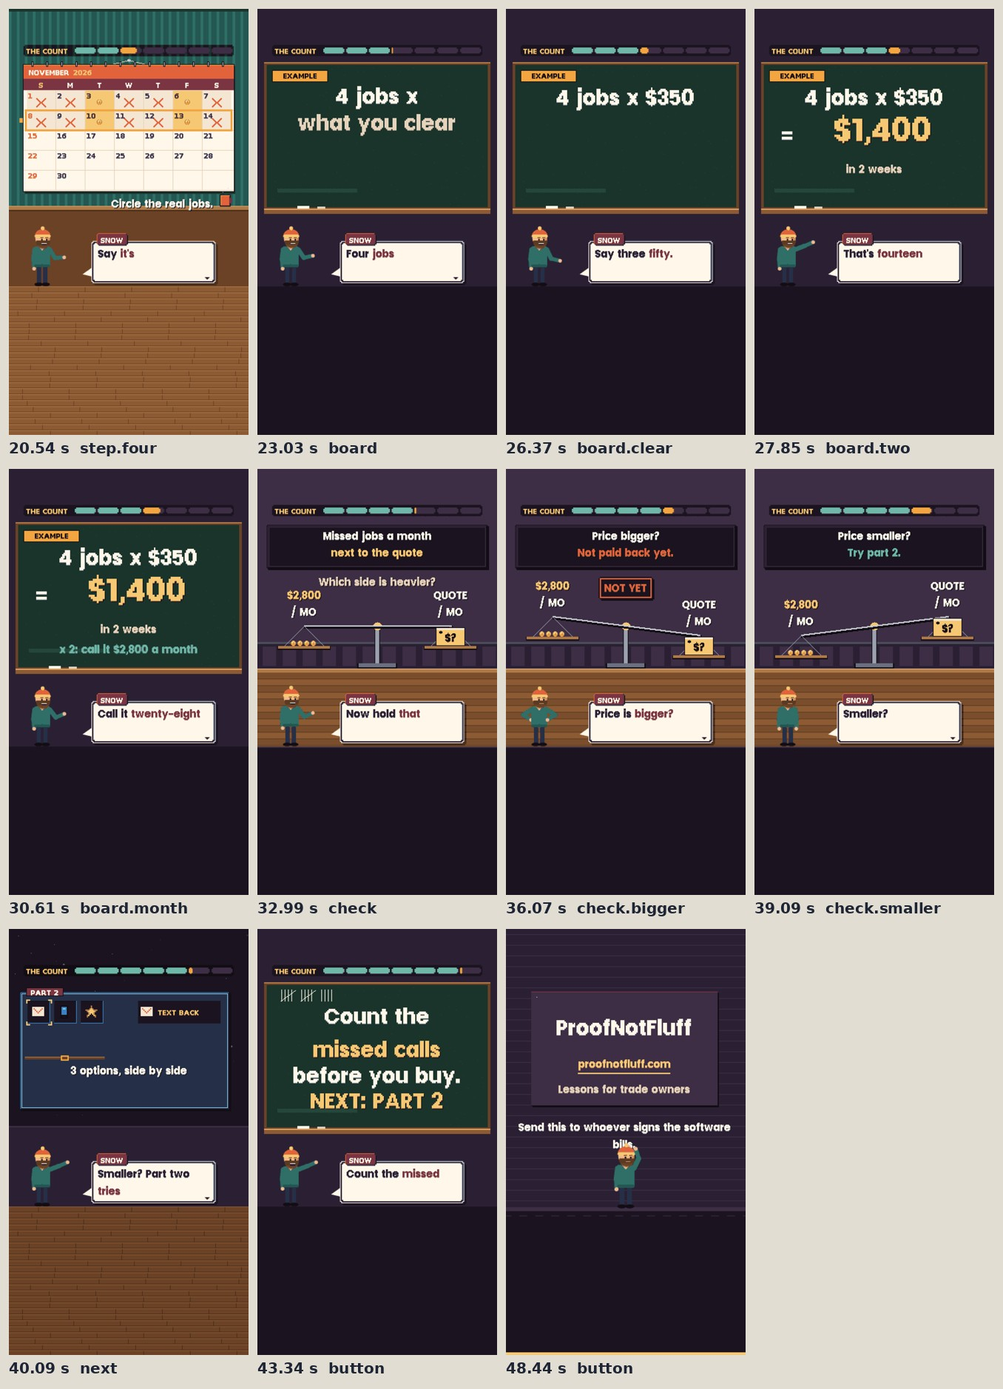
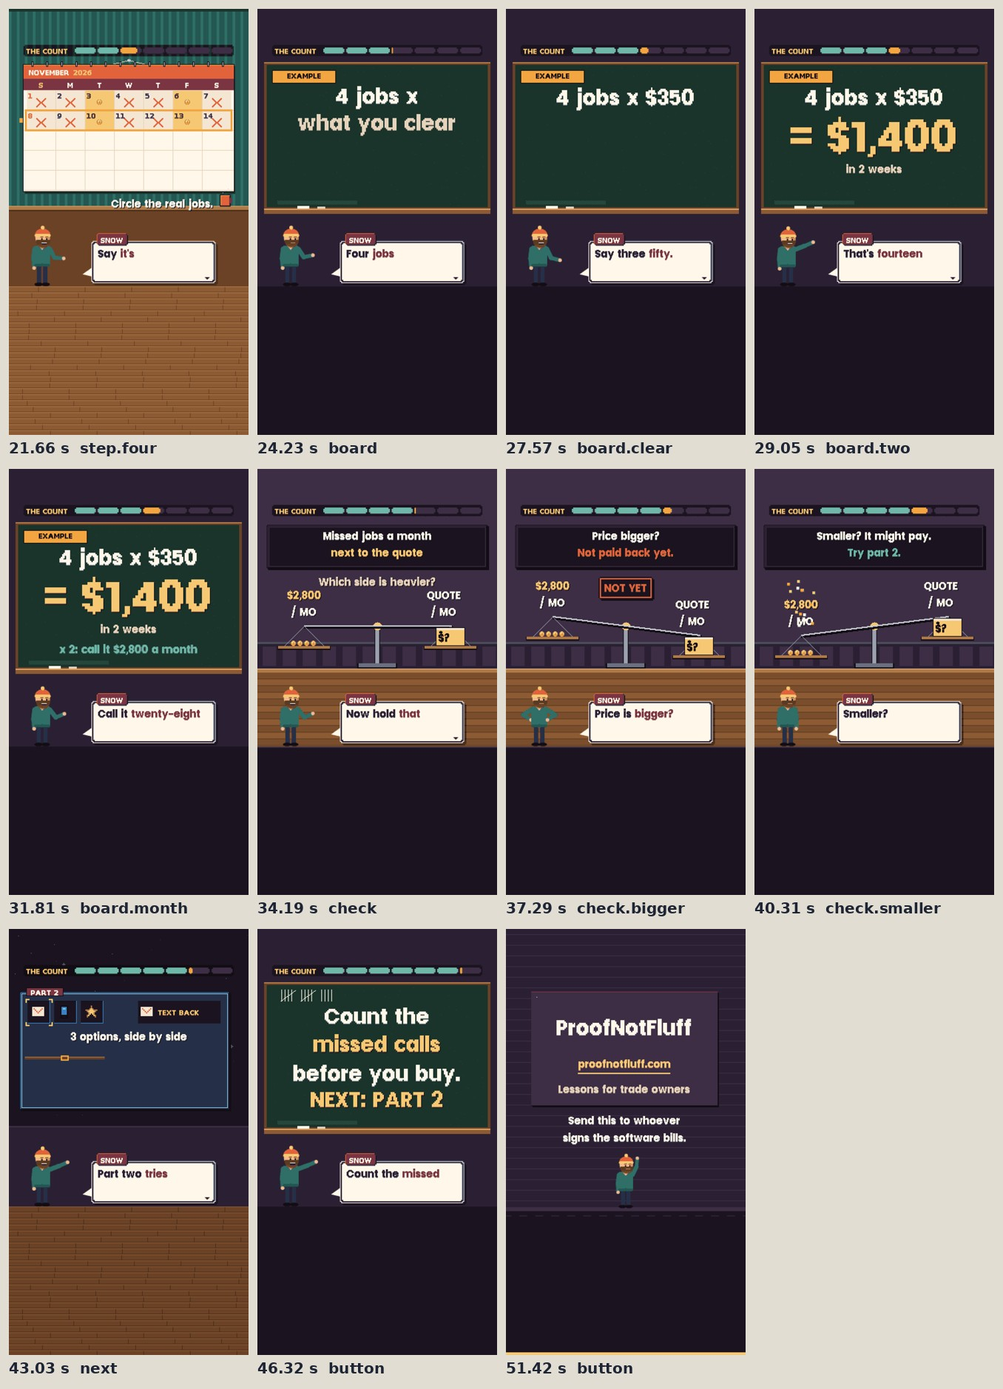
Studio: count-before-ai all gates PASS (live chat, Oct 31): facts 12/0, facts-captions 52/0, render critic 0 faults (r3), buyer PASS (r1), design 4.57 at the 4.50 bar (r4), golden post as is (r3); qa PASS with flat; LEARNINGS
Claude-Session: https://claude.ai/code/session_01XMn4eHXXBNFFFhZSS8Ea12

diff --git a/video/studio/videos/2026-11-13-count-before-ai/04_scene/scene.js b/video/studio/videos/2026-11-13-count-before-ai/04_scene/scene.js
@@ -65,7 +65,7 @@ const stampBox = (k, s, cx, y, t0, o = {}) => {
 
 /* text that fits: the biggest of the given sizes whose width fits maxW */
 const fit = (k, s, maxW, sizes = [198, 132, 99, 66, 39]) => { for (const z of sizes) if (k.measure(String(s), {size: z}) <= maxW) return z; return sizes[sizes.length - 1]; };
-const exTag = (k, d, x, y) => { d.P(x, y, 84, 18, INK); d.P(x + 1, y + 1, 82, 16, ORANGE); k.text('EXAMPLE', (x + 42) * 3, (y + 2) * 3, {size: 30, color: INK, align: 'center', lint: false}); };
+const exTag = (k, d, x, y) => { d.P(x, y, 96, 20, INK); d.P(x + 1, y + 1, 94, 18, ORANGE); k.text('EXAMPLE', (x + 48) * 3, (y + 2) * 3, {size: 48, color: INK, align: 'center', lint: false}); };
 const partTag = (k, d, n, x = 20, y = 160) => { const s = `PART ${n.part.shown} OF ${n.series.shown}`, w = Math.ceil((k.measure(s, {size: 39}) + 36) / 3); d.P(x, y, w + 2, 22, INK); d.P(x + 1, y + 1, w, 20, ORANGE); k.text(s, (x + 1 + w / 2) * 3, (y + 2) * 3, {size: 39, color: INK, align: 'center'}); };
 const hookPlate = (k, d, n) => {
   d.win(14, 84, 332, 66, {base: '#253048', hi: '#3B82C4', lo: '#1B1420', rule: '#3B82C4'});
@@ -89,8 +89,8 @@ const laptop = (k, d, x, y, w, h, o = {}) => {
   const {P, F} = d;
   P(x + 3, y + 3, w, h, INK); P(x - 1, y - 1, w + 2, h + 2, INK); P(x, y, w, h, '#4A4E5A'); P(x + 1, y, w - 2, 1, '#9AA0AD');
   P(x + 4, y + 4, w - 8, h - 8, '#1B2A3F'); P(x + 4, y + 4, w - 8, 18, '#253048');
-  k.text('AI RECEPTIONIST', (x + w / 2) * 3, (y + 7) * 3, {size: 39, color: CREAM, align: 'center', lint: o.lint});
-  if (o.demo) { d.P(x + w - 46, y + 26, 40, 14, RED); k.text('DEMO', (x + w - 26) * 3, (y + 28) * 3, {size: 30, color: CREAM, align: 'center', lint: false}); }
+  k.text('AI RECEPTIONIST', (x + w / 2) * 3, (y + 6) * 3, {size: 48, color: CREAM, align: 'center', lint: o.lint});
+  if (o.demo) { d.P(x + w - 52, y + 26, 46, 18, RED); k.text('DEMO', (x + w - 29) * 3, (y + 28) * 3, {size: 48, color: CREAM, align: 'center', lint: false}); }
   /* the wave: bars that move with the frame, all in whole pixels */
   const n = Math.floor((w - 24) / 6), cy = y + Math.round(h * 0.62);
   for (let i = 0; i < n; i++) { const a = Math.abs(Math.sin(i * 0.9 + F * 0.35) * Math.sin(i * 0.31 + F * 0.11)), hh = 2 + Math.round(a * (h * 0.28)); P(x + 12 + i * 6, cy - hh, 4, hh * 2, TEAL); }
@@ -108,7 +108,7 @@ const deskPhone = (k, d, n) => {
   P(58, 132 + o, 70, 170, INK); P(60, 134 + o, 66, 166, '#3D2E45'); P(60, 134 + o, 66, 4, '#6B7080'); disc(93, 150 + o, 12, '#1B1420'); disc(93, 284 + o, 12, '#1B1420');
   /* the screen: MISSED CALL and the count in big type, the one focal point */
   P(146, 132 + o, 164, 110, INK); P(148, 134 + o, 160, 106, '#253048'); P(148, 134 + o, 160, 30, '#7A3442'); P(148, 163 + o, 160, 1, RED);
-  k.text('MISSED CALL', 684, (138 + o) * 3, {size: 39, color: CREAM, align: 'center'});
+  k.text('MISSED CALL', 684, (137 + o) * 3, {size: 48, color: CREAM, align: 'center'});
   k.text(n.missed.shown, 684, (168 + o) * 3, {size: 198, color: RED, align: 'center', drop: INK});
   /* the keys */
   for (let r = 0; r < 2; r++) for (let c = 0; c < 4; c++) { P(150 + c * 40, 252 + o + r * 16, 34, 12, '#1B1420'); P(150 + c * 40, 252 + o + r * 16, 34, 2, '#4A4E5A'); }
@@ -122,7 +122,7 @@ const chalk = (k) => {
   P(0, 0, 360, 417, '#2F2A3A');
   P(10, 80, 340, 222, '#6B4226'); P(10, 80, 340, 2, '#B07A47'); P(14, 84, 332, 214, '#1F3B33');
   for (let i = 0; i < 90; i++) DOT(16 + Math.floor(hash(i * 4.1) * 328), 86 + Math.floor(hash(i * 2.3) * 210), '#2C4A41');
-  dith(30, 270, 120, 6, '#3E5C52', 0);
+  dith(30, 288, 120, 6, '#3E5C52', 0);
   P(10, 300, 340, 8, '#8C5A33'); P(10, 300, 340, 2, '#D9A066'); P(60, 296, 18, 4, CREAM); P(90, 297, 12, 3, '#E6D3BC');
   P(0, 308, 360, 109, '#2B2033'); P(0, 417, 360, 223, '#1B1420'); for (let x = 0; x < 360; x += 24) P(x, 417, 1, 223, '#231A29');
   return d;
@@ -162,7 +162,7 @@ window.SCENE = {
       k.text(n.missed.shown, 540, 880, {size: 264, color: 'accent', align: 'center', drop: INK});
       hookPlate(k, d, n);
       partTag(k, d, n);
-      exTag(k, d, 220, 162);
+      exTag(k, d, 206, 162);
       return {host: false, speech: false};
     },
 
@@ -189,7 +189,7 @@ window.SCENE = {
       if (T >= t0 + 0.3) {
         const sl = d.ease(t0 + 0.3, 6, 120), x = 206, y = 162 + sl;
         d.P(x + 3, y + 3, 128, 134, INK); d.P(x, y, 128, 134, CREAM); d.P(x, y, 128, 20, '#E6D3BC');
-        k.text('QUOTE', (x + 64) * 3, (y + 4) * 3, {size: 39, color: INK, align: 'center'});
+        k.text('QUOTE', (x + 64) * 3, (y + 3) * 3, {size: 48, color: INK, align: 'center'});
         k.text('AI', (x + 64) * 3, (y + 28) * 3, {size: 66, color: '#3D2E45', align: 'center'});
         k.text('$? / MO', (x + 64) * 3, (y + 58) * 3, {size: 66, color: INK, align: 'center'});
         d.P(x + 12, y + 112, 104, 2, INK); if (T >= tSign) k.text('SIGN', (x + 64) * 3, (y + 88) * 3, {size: 66, color: RED, align: 'center'});
@@ -201,18 +201,20 @@ window.SCENE = {
     /* ---- step: the calendar set, NOVEMBER. An X lands on days 1 to 14 on "mark every call"; the week strip on week 1, */
     /* then week 2 on "weeks"; 4 of the days take a coin on "real jobs"; 4 OF 14 lands on "four".                       */
     step: (k, T) => {
-      const n = k.data.numbers, t0 = k.S('step'), tMark = wordT(k, 'step', /^count/i, 2.4), tJobs = wordT(k, 'step.circle', /^jobs/i, 1.8), tFour = wordT(k, 'step.four', /^four/i, 0.4);
+      const n = k.data.numbers, t0 = k.S('step'), tMark = wordT(k, 'step', /^scroll/i, 0.8), tJobs = wordT(k, 'step.circle', /^jobs/i, 1.8), tFour = wordT(k, 'step.four', /^four/i, 0.4);
       const JOB_DAYS = [3, 6, 10, 13].slice(0, n.jobs.value);
       const fills = [];
-      for (let dd = 1; dd <= n.days.value; dd++) fills.push({day: dd, at: tMark + (dd - 1) * 0.1, mark: 'x'});
+      for (let dd = 1; dd <= n.days.value; dd++) fills.push({day: dd, at: tMark + (dd - 1) * 0.2, mark: 'x'});
       JOB_DAYS.forEach((dd, i) => fills.push({day: dd, at: tJobs - 0.3 + i * 0.25, mark: 'coin', c: '#F7C873'}));
-      k.sets.calendar({month: 'NOVEMBER', year: 2026, start: 0, days: 30, numbersTo: T >= tFour - 0.1 ? 14 : 30, fills, weeks: [{row: 0, at: t0 + 0.1}, {row: 1, at: tMark + 0.8}]});
+      k.sets.calendar({month: 'NOVEMBER', year: 2026, start: 0, days: 30, numbersTo: T >= tFour - 0.1 ? 14 : 30, fills, weeks: [{row: 0, at: t0 + 0.1}, {row: 1, at: tMark + 1.4}]});
+      if (T < tFour) k.burst(540, 520, tMark + 2.9, {n: 14, r: 260});
       if (T >= tFour) {
         /* a plate over the empty weeks of the month: the count big, what it means under it */
         const hero = `${n.jobs.shown} OF ${n.missed.shown}`, dp = px(k), sl = dp.ease(tFour - 0.1, 5, 40);
-        dp.win(24, 186 + sl, 312, 90, {base: '#1B1420', hi: '#3D2E45', lo: INK, rule: GOLD});
-        k.slam(hero, 540, 578 + sl * 3, tFour, {size: fit(k, hero, 900, [198, 132]), color: GOLD, align: 'center', from: 0.6, drop: INK, glint: false});
-        k.text('CALLS WERE REAL JOBS', 540, 748 + sl * 3, {size: 66, color: CREAM, align: 'center', drop: INK});
+        dp.win(24, 184 + sl, 312, 106, {base: '#1B1420', hi: '#3D2E45', lo: INK, rule: GOLD});
+        k.slam(hero, 540, 566 + sl * 3, tFour, {size: fit(k, hero, 900, [264, 198, 132]), color: GOLD, align: 'center', from: 0.6, drop: INK, glint: false});
+        k.text('CALLS WERE REAL JOBS', 540, 800 + sl * 3, {size: 66, color: CREAM, align: 'center', drop: INK});
+        k.burst(540, 640, tFour + 0.7, {n: 18, r: 300}); k.burst(540, 640, tFour + 1.5, {n: 14, r: 260});
       } else {
         const s = T >= k.S('step.circle') ? 'Circle the real jobs.' : 'Count every missed call.';
         k.text(s, 920, 846, {size: fit(k, s, 600, [66, 39]), color: CREAM, align: 'right', drop: INK});
@@ -229,9 +231,8 @@ window.SCENE = {
       if (T < tClr) { k.slam(`${n.jobs.shown} jobs x`, 540, 330, t0 + 0.1, {size: 99, color: CREAM, align: 'center', from: 0.3, glint: false}); k.slam('what you clear', 540, 450, t0 + 0.3, {size: 99, color: SAND, align: 'center', from: 0.3, glint: false}); }
       else { const s = `${n.jobs.shown} jobs x ${n.clear.shown}`; k.slam(s, 540, 336, tClr, {size: 99, color: CREAM, align: 'center', from: 0.3, glint: false}); }
       if (T >= tTwo) {
-        const hz = fit(k, n.two.shown, 760);
-        k.text('=', 150, 470 + Math.round(hz * 0.2), {size: 99, color: CREAM, align: 'center'});
-        k.slam(n.two.shown, 580, 450, tTwo, {size: hz, color: GOLD, align: 'center', from: 0.5, drop: INK, glint: false});
+        const s2 = `= ${n.two.shown}`, hz = fit(k, s2, 940, [264, 198, 132]);
+        k.slam(s2, 540, 450, tTwo, {size: hz, color: GOLD, align: 'center', from: 0.5, drop: INK, glint: false});
         k.text(`in ${n.weeks.shown} weeks`, 540, 690, {size: 66, color: SAND, align: 'center'});
       }
       if (T >= tMo) k.slam(`x 2: call it ${n.month.shown} a month`, 540, 780, tMo, {size: fit(k, `x 2: call it ${n.month.shown} a month`, 900, [66, 39]), color: TEAL, align: 'center', from: 0.3, glint: false});
@@ -262,6 +263,7 @@ window.SCENE = {
       k.text('/ MO', 840, (ry - 44) * 3 + 36, {size: 66, color: CREAM, align: 'center', drop: INK});
       if (T >= tBig && T < tSm) stampBox(k, 'NOT YET', 540, 486, tBig, {color: RED, freeze: 4});
       else if (T < tBig) k.text('Which side is heavier?', 540, 476, {size: 66, color: SAND, align: 'center', drop: INK});
+      if (T >= tSm) { k.burst(210, 600, tSm + 0.5, {n: 14, r: 240}); k.burst(210, 600, tSm + 1.3, {n: 14, r: 240}); }
       return host(k, k.live('check.bigger') ? 'shrug' : null);
     },
 
@@ -271,9 +273,10 @@ window.SCENE = {
       const n = k.data.numbers, t0 = k.S('next'), tA = wordT(k, 'next', /^three/i, 0.6), tB = wordT(k, 'next', /^options/i, 1.0), tC = wordT(k, 'next', /^side/i, 1.6);
       k.sets.inventory({title: `PART ${n.next.shown}`, hint: ' ', items: [{icon: 'mail', name: 'TEXT BACK'}, {icon: 'phone', name: 'A PERSON'}, {icon: 'star', name: 'AI'}],
         slots: 3, select: [{slot: 0, at: t0}, {slot: 0, at: tA}, {slot: 1, at: tB}, {slot: 2, at: tC}]});
-      k.text(`${n.opts.shown} options, side by side`, 540, 606, {size: 66, color: CREAM, align: 'center', drop: INK});
+      k.text(`${n.opts.shown} options, side by side`, 540, 452, {size: 66, color: CREAM, align: 'center', drop: INK});
       const opts = [['TEXT BACK', tA], ['A PERSON', tB], ['AI', tC]], on = opts.filter(([, ti]) => T >= ti).length - 1;
-      if (on >= 0) { const [s2, ti] = opts[on]; k.slam(`${on + 1}. ${s2}`, 540, 684, ti, {size: fit(k, `${on + 1}. ${s2}`, 860, [132, 99]), color: on === 2 ? GOLD : '#F4E6D3', align: 'center', from: 0.4, drop: INK, glint: false}); }
+      opts.forEach(([, ti]) => k.burst(540, 640, ti + 0.5, {n: 14, r: 260})); if (T >= tC) k.burst(540, 640, tC + 1.3, {n: 16, r: 280});
+      if (on >= 0) { const [s2, ti] = opts[on]; k.slam(`${on + 1}. ${s2}`, 540, 592, ti, {size: fit(k, `${on + 1}. ${s2}`, 860, [132, 99]), color: on === 2 ? GOLD : '#F4E6D3', align: 'center', from: 0.4, drop: INK, glint: false}); }
       return host(k, k.live('next') ? 'point' : null);
     },
 
@@ -285,10 +288,10 @@ window.SCENE = {
       /* the tally from the calendar, chalked small in the corner: 14 strokes, 4 circled */
       for (let i = 0; i < n.missed.value; i++) { const g = Math.floor(i / 5), j = i % 5, x = 36 + g * 30 + j * 5; if (j === 4) d.line(x - 21, 108, x + 1, 92, CREAM, 1); else d.P(x, 91, 1, 18, CREAM); }
       k.slam('Count the', 540, 330, t0 + 0.05, {size: 132, color: CREAM, align: 'center', from: 0.4, glint: false});
-      k.slam('missed calls', 540, 480, t0 + 0.12, {size: fit(k, 'missed calls', 900, [132, 99]), color: GOLD, align: 'center', from: 0.4, drop: INK, glint: false});
-      k.slam('before you buy.', 540, 596, t0 + 0.2, {size: 99, color: CREAM, align: 'center', from: 0.4, glint: false});
-      k.sweep(540 - k.measure('missed calls', {size: fit(k, 'missed calls', 900, [132, 99])}) / 2, 582, k.measure('missed calls', {size: fit(k, 'missed calls', 900, [132, 99])}), 6, t0 + 0.6, {color: 'accent'});
-      k.text(`NEXT: PART ${n.next.shown}`, 540, 712, {size: 99, color: GOLD, align: 'center', drop: INK});
+      k.slam('missed calls', 540, 456, t0 + 0.12, {size: fit(k, 'missed calls', 900, [132, 99]), color: GOLD, align: 'center', from: 0.4, drop: INK, glint: false});
+      k.slam('before you buy.', 540, 588, t0 + 0.2, {size: 99, color: CREAM, align: 'center', from: 0.4, glint: false});
+      k.sweep(540 - k.measure('missed calls', {size: fit(k, 'missed calls', 900, [132, 99])}) / 2, 566, k.measure('missed calls', {size: fit(k, 'missed calls', 900, [132, 99])}), 6, t0 + 0.6, {color: 'accent'});
+      k.text(`NEXT: PART ${n.next.shown}`, 540, 704, {size: 99, color: GOLD, align: 'center', drop: INK});
       return host(k, T >= t0 + 1.2 ? 'wave' : 'point');
     },
   },

diff --git a/video/studio/videos/2026-11-13-count-before-ai/03_cues/cues.js b/video/studio/videos/2026-11-13-count-before-ai/03_cues/cues.js
@@ -1,1 +1,1 @@
-window.CUES = {"schema": "pnf.studio.cues.v1", "source": "whisper medium.en int8, re-spelled from script.md", "music": {"id": "rooms", "level": 0.16, "tune": "quest"}, "duration": 49.944, "cues": [{"id": "hook", "level": 0, "quote": "You want an AI", "sfx": "pop", "shift": 0.0, "pin": null, "text": "Three shots. Cover, frame one, host and dialog box hidden: the dispatch board, our service area with 14 red pins already down (the 14 missed calls), the hero \"14\" big in gold, plate \"14 missed calls.\" / \"Need an AI receptionist?\", chip \"PART 1 OF 2\", EXAMPLE tag. By 0.8 s cut in close: a desk phone on the dash, its screen MISSED CALL with the red badge \"14\"; Snow and the dialog box come in. On \"Need\" cut to the third shot: a laptop on a desk, AI RECEPTIONIST on its screen with a talking wave; the plate stays up.", "t": 0.0, "word": 0, "end": 4.029}, {"id": "usual", "level": 0, "quote": "Part one of two,", "sfx": "whoosh", "shift": 0.0, "pin": null, "text": "Our own office: the laptop's demo screen big (AI RECEPTIONIST, DEMO, the wave moving), \"PART 1 OF 2: THE COUNT\" on the card above it.", "t": 4.029, "word": 9, "end": 13.518}, {"id": "usual.great", "level": 1, "quote": "demo sounded great, so", "sfx": "blip", "shift": 0.0, "pin": null, "text": "Gold stars pop over the wave on \"great\"; on \"sign\" a quote sheet slides up with a pen and a SIGN HERE line.", "t": 7.429, "word": 19, "end": 10.189}, {"id": "usual.worth", "level": 1, "quote": "But you don't know", "sfx": "stamp", "shift": 0.0, "pin": null, "text": "Cut to the dispatch board again, the 14 red pins; plate \"14 missed calls.\" / \"Worth how much?\"; a red stamp \"WORTH: ?\" hits on \"worth\"; Snow shrugs.", "t": 10.189, "word": 24, "end": 13.518}, {"id": "step", "level": 0, "quote": "Tonight, scroll your call", "sfx": "whoosh", "shift": 0.0, "pin": null, "text": "The calendar set, NOVEMBER: a red X lands on each day from 1 to 14 on \"count every miss\"; the gold week strip sits on week 1, then week 2. Line in the strip under it: \"Count every missed call.\"", "t": 13.518, "word": 34, "end": 23.634}, {"id": "step.circle", "level": 1, "quote": "Then circle the ones", "sfx": "tick", "shift": 0.0, "pin": null, "text": "Four of the days take a gold coin, one by one (\"real jobs\"). The strip line turns to \"Circle the real jobs.\"", "t": 18.398, "word": 46, "end": 21.058}, {"id": "step.four", "level": 1, "quote": "Say it's four of", "sfx": "tick", "shift": 0.0, "pin": null, "text": "\"4 JOBS OF 14 CALLS\" lands in the strip, EXAMPLE tag.", "t": 21.058, "word": 54, "end": 23.634}, {"id": "board", "level": 0, "quote": "Four jobs times what", "sfx": "whoosh", "shift": 0.0, "pin": null, "text": "Our own chalk board, EXAMPLE: \"4 jobs x what you clear\" chalks on.", "t": 23.634, "word": 60, "end": 33.593}, {"id": "board.clear", "level": 1, "quote": "Say three fifty.", "sfx": "tick", "shift": 0.0, "pin": null, "text": "\"$350\" lands in place of \"what you clear\": \"4 x $350\".", "t": 26.974, "word": 70, "end": 28.454}, {"id": "board.two", "level": 1, "quote": "That's fourteen hundred bucks", "sfx": "stamp", "shift": 0.0, "pin": null, "text": "\"= $1,400\" hero size, \"in 2 weeks\" under it; held.", "t": 28.454, "word": 73, "end": 31.214}, {"id": "board.month", "level": 1, "quote": "Call it twenty-eight hundred", "sfx": "tick", "shift": 0.0, "pin": null, "text": "\"x 2: call it $2,800 a month\" chalks under it; the whole board held.", "t": 31.214, "word": 80, "end": 33.593}, {"id": "check", "level": 0, "quote": "Now hold that next", "sfx": "whoosh", "shift": 0.0, "pin": null, "text": "A balance scale on the office desk: the left pan \"$2,800 / MO\" (missed jobs), the right pan the quote sheet \"QUOTE / MO\".", "t": 33.593, "word": 86, "end": 40.693}, {"id": "check.bigger", "level": 1, "quote": "Price is bigger?", "sfx": "stamp", "shift": 0.0, "pin": null, "text": "The quote pan drops; red stamp \"NOT PAID BACK YET\".", "t": 36.673, "word": 97, "end": 39.713}, {"id": "check.smaller", "level": 1, "quote": "Smaller?", "sfx": "blip", "shift": 0.0, "pin": null, "text": "The pan swings up; teal \"TRY PART 2\".", "t": 39.713, "word": 106, "end": 40.693}, {"id": "next", "level": 0, "quote": "Part two tries three", "sfx": "whoosh", "shift": 0.0, "pin": null, "text": "The inventory set, title \"PART 2\": three slots, TEXT BACK, A PERSON, AI; the cursor jumps slot to slot on \"three options side by side\".", "t": 40.693, "word": 110, "end": 43.944}, {"id": "button", "level": 0, "quote": "Count the missed calls", "sfx": "sting", "shift": 0.0, "pin": null, "text": "Back on the chalk board, a tally of 14 strokes chalked in the corner; the rule lands big: \"Count the\" / \"missed calls\" (gold) / \"before you buy.\", \"NEXT: PART 2\" under it. Snow waves. Then the end card with the send line: \"Send this to whoever signs the software bills.\"", "t": 43.944, "word": 118, "end": 49.944}]};
+window.CUES = {"schema": "pnf.studio.cues.v1", "source": "whisper medium.en int8, re-spelled from script.md", "music": {"id": "rooms", "level": 0.16, "tune": "quest"}, "duration": 51.72, "cues": [{"id": "hook", "level": 0, "quote": "You want an AI", "sfx": "pop", "shift": 0.0, "pin": null, "text": "Three shots. Cover, frame one, host and dialog box hidden: the dispatch board, our service area with 14 red pins already down (the 14 missed calls), the hero \"14\" big in gold, plate \"14 missed calls.\" / \"Need an AI receptionist?\", chip \"PART 1 OF 2\", EXAMPLE tag. By 0.8 s cut in close: a desk phone on the dash, its screen MISSED CALL with the red badge \"14\"; Snow and the dialog box come in. On \"Need\" cut to the third shot: a laptop on a desk, AI RECEPTIONIST on its screen with a talking wave; the plate stays up.", "t": 0.0, "word": 0, "end": 4.029}, {"id": "usual", "level": 0, "quote": "Part one of two,", "sfx": "whoosh", "shift": 0.0, "pin": null, "text": "Our own office: the laptop's demo screen big (AI RECEPTIONIST, DEMO, the wave moving), \"PART 1 OF 2: THE COUNT\" on the card above it.", "t": 4.029, "word": 9, "end": 13.518}, {"id": "usual.great", "level": 1, "quote": "demo sounded great, so", "sfx": "blip", "shift": 0.0, "pin": null, "text": "Gold stars pop over the wave on \"great\"; on \"sign\" a quote sheet slides up with a pen and a SIGN HERE line.", "t": 7.429, "word": 19, "end": 10.189}, {"id": "usual.worth", "level": 1, "quote": "But you don't know", "sfx": "stamp", "shift": 0.0, "pin": null, "text": "Cut to the dispatch board again, the 14 red pins; plate \"14 missed calls.\" / \"Worth how much?\"; a red stamp \"WORTH: ?\" hits on \"worth\"; Snow shrugs.", "t": 10.189, "word": 24, "end": 13.518}, {"id": "step", "level": 0, "quote": "Tonight, scroll your call", "sfx": "whoosh", "shift": 0.0, "pin": null, "text": "The calendar set, NOVEMBER: a red X lands on each day from 1 to 14 on \"count every miss\"; the gold week strip sits on week 1, then week 2. Line in the strip under it: \"Count every missed call.\"", "t": 13.518, "word": 34, "end": 23.634}, {"id": "step.circle", "level": 1, "quote": "Then circle the ones", "sfx": "tick", "shift": 0.0, "pin": null, "text": "Four of the days take a gold coin, one by one (\"real jobs\"). The strip line turns to \"Circle the real jobs.\"", "t": 18.398, "word": 46, "end": 21.058}, {"id": "step.four", "level": 1, "quote": "Say it's four of", "sfx": "tick", "shift": 0.0, "pin": null, "text": "\"4 JOBS OF 14 CALLS\" lands in the strip, EXAMPLE tag.", "t": 21.058, "word": 54, "end": 23.634}, {"id": "board", "level": 0, "quote": "Four jobs times what", "sfx": "whoosh", "shift": 0.0, "pin": null, "text": "Our own chalk board, EXAMPLE: \"4 jobs x what you clear\" chalks on.", "t": 23.634, "word": 60, "end": 33.593}, {"id": "board.clear", "level": 1, "quote": "Say three fifty.", "sfx": "tick", "shift": 0.0, "pin": null, "text": "\"$350\" lands in place of \"what you clear\": \"4 x $350\".", "t": 26.974, "word": 70, "end": 28.454}, {"id": "board.two", "level": 1, "quote": "That's fourteen hundred bucks", "sfx": "stamp", "shift": 0.0, "pin": null, "text": "\"= $1,400\" hero size, \"in 2 weeks\" under it; held.", "t": 28.454, "word": 73, "end": 31.214}, {"id": "board.month", "level": 1, "quote": "Call it twenty-eight hundred", "sfx": "tick", "shift": 0.0, "pin": null, "text": "\"x 2: call it $2,800 a month\" chalks under it; the whole board held.", "t": 31.214, "word": 80, "end": 33.593}, {"id": "check", "level": 0, "quote": "Now hold that next", "sfx": "whoosh", "shift": 0.0, "pin": null, "text": "A balance scale on the office desk: the left pan \"$2,800 / MO\" (missed jobs), the right pan the quote sheet \"QUOTE / MO\".", "t": 33.593, "word": 86, "end": 42.433}, {"id": "check.bigger", "level": 1, "quote": "Price is bigger?", "sfx": "stamp", "shift": 0.0, "pin": null, "text": "The quote pan drops; red stamp \"NOT PAID BACK YET\".", "t": 36.693, "word": 97, "end": 39.713}, {"id": "check.smaller", "level": 1, "quote": "Smaller?", "sfx": "blip", "shift": 0.0, "pin": null, "text": "The pan swings up; teal \"TRY PART 2\".", "t": 39.713, "word": 106, "end": 42.433}, {"id": "next", "level": 0, "quote": "Part two tries three", "sfx": "whoosh", "shift": 0.0, "pin": null, "text": "The inventory set, title \"PART 2\": three slots, TEXT BACK, A PERSON, AI; the cursor jumps slot to slot on \"three options side by side\".", "t": 42.433, "word": 111, "end": 45.72}, {"id": "button", "level": 0, "quote": "Count the missed calls", "sfx": "sting", "shift": 0.0, "pin": null, "text": "Back on the chalk board, a tally of 14 strokes chalked in the corner; the rule lands big: \"Count the\" / \"missed calls\" (gold) / \"before you buy.\", \"NEXT: PART 2\" under it. Snow waves. Then the end card with the send line: \"Send this to whoever signs the software bills.\"", "t": 45.72, "word": 119, "end": 51.72}]};

diff --git a/video/studio/videos/2026-11-13-count-before-ai/02_transcript/mouth.js b/video/studio/videos/2026-11-13-count-before-ai/02_transcript/mouth.js
@@ -1,1 +1,1 @@
[2 lines of base64/hex data omitted]

diff --git a/video/studio/LEARNINGS.md b/video/studio/LEARNINGS.md
@@ -108,3 +108,5 @@ The studio learns in three loops (Todd, Oct 28, 2026, 3:43 pm: "make this video 
 - Oct 31 lunch post, lsa-missed-calls (instagram): Oct 31 lunch: instagram.com web uploader still has no Trial option (Advanced settings checked); posted as a normal reel.
 - Oct 31 lunch post, lsa-missed-calls (facebook): Oct 31 lunch: Facebook reel caption box is on the Edit step (before Next), not on the Settings step; facebook.com/reels/create/ opens the Page reel creator directly.
 - Oct 31 lunch make (cloud), count-before-ai (Depth bank #3, playbook part 1 of 2, all numbers ours, EXAMPLE): held for Todd. r0: render critic 0 faults, buyer and golden PASS, Kimi facts PASS, facts-captions FAIL (Facebook line 1 named no trade; fixed, r1 PASS); design FAIL 4.14 (MISSED label on props, hero 14 small, quote pan blank, empty inventory slots, half-empty laptop shot, blank title frame, small labels). r1 after the fix round: design second FAIL 4.29 (the AI option name fell below the inventory panel; 4 OF 14 not hero size; end card send line about 30 px; phone 14 about 100 px; five empty inventory slots); the re-render also failed render critic (the same overflow) and golden (must-fix: same). Lint gap: text drawn below a set's panel (inventory area is only 60 low-res px tall) is not linted; three 66-size lines need about 210 px. Hook voice: Eleven v4 stops 0.5 to 0.8 s at a full stop or comma after a short fragment and draws a last word like "receptionist?" out to 0.8 s; four takes ended at 4.18, 4.50, 4.24 and 3.90 s. What made 3.38 s: one 9-word sentence with no comma that ends on short words ("You want an AI receptionist after fourteen missed calls?"). Bitmap sizes read smaller than they say: 39 is about 30 px ink, 198 about 100 px; the design gate's 160 px hero needs size 264 or more and its 36 px label floor size 66.
+- Oct 31 (live chat, count-before-ai): a re-voice changed the timing and opened 4 flat stretches the first render did not have; run `check` (flat) after every new voice, not only after scene edits. Bursts and slower calendar marks closed them.
+- Oct 31: Whisper heard "Then" as "than" and ElevenLabs dropped "It might pay."; a short, distinct word ("Now it might pay") passed on the next take.
